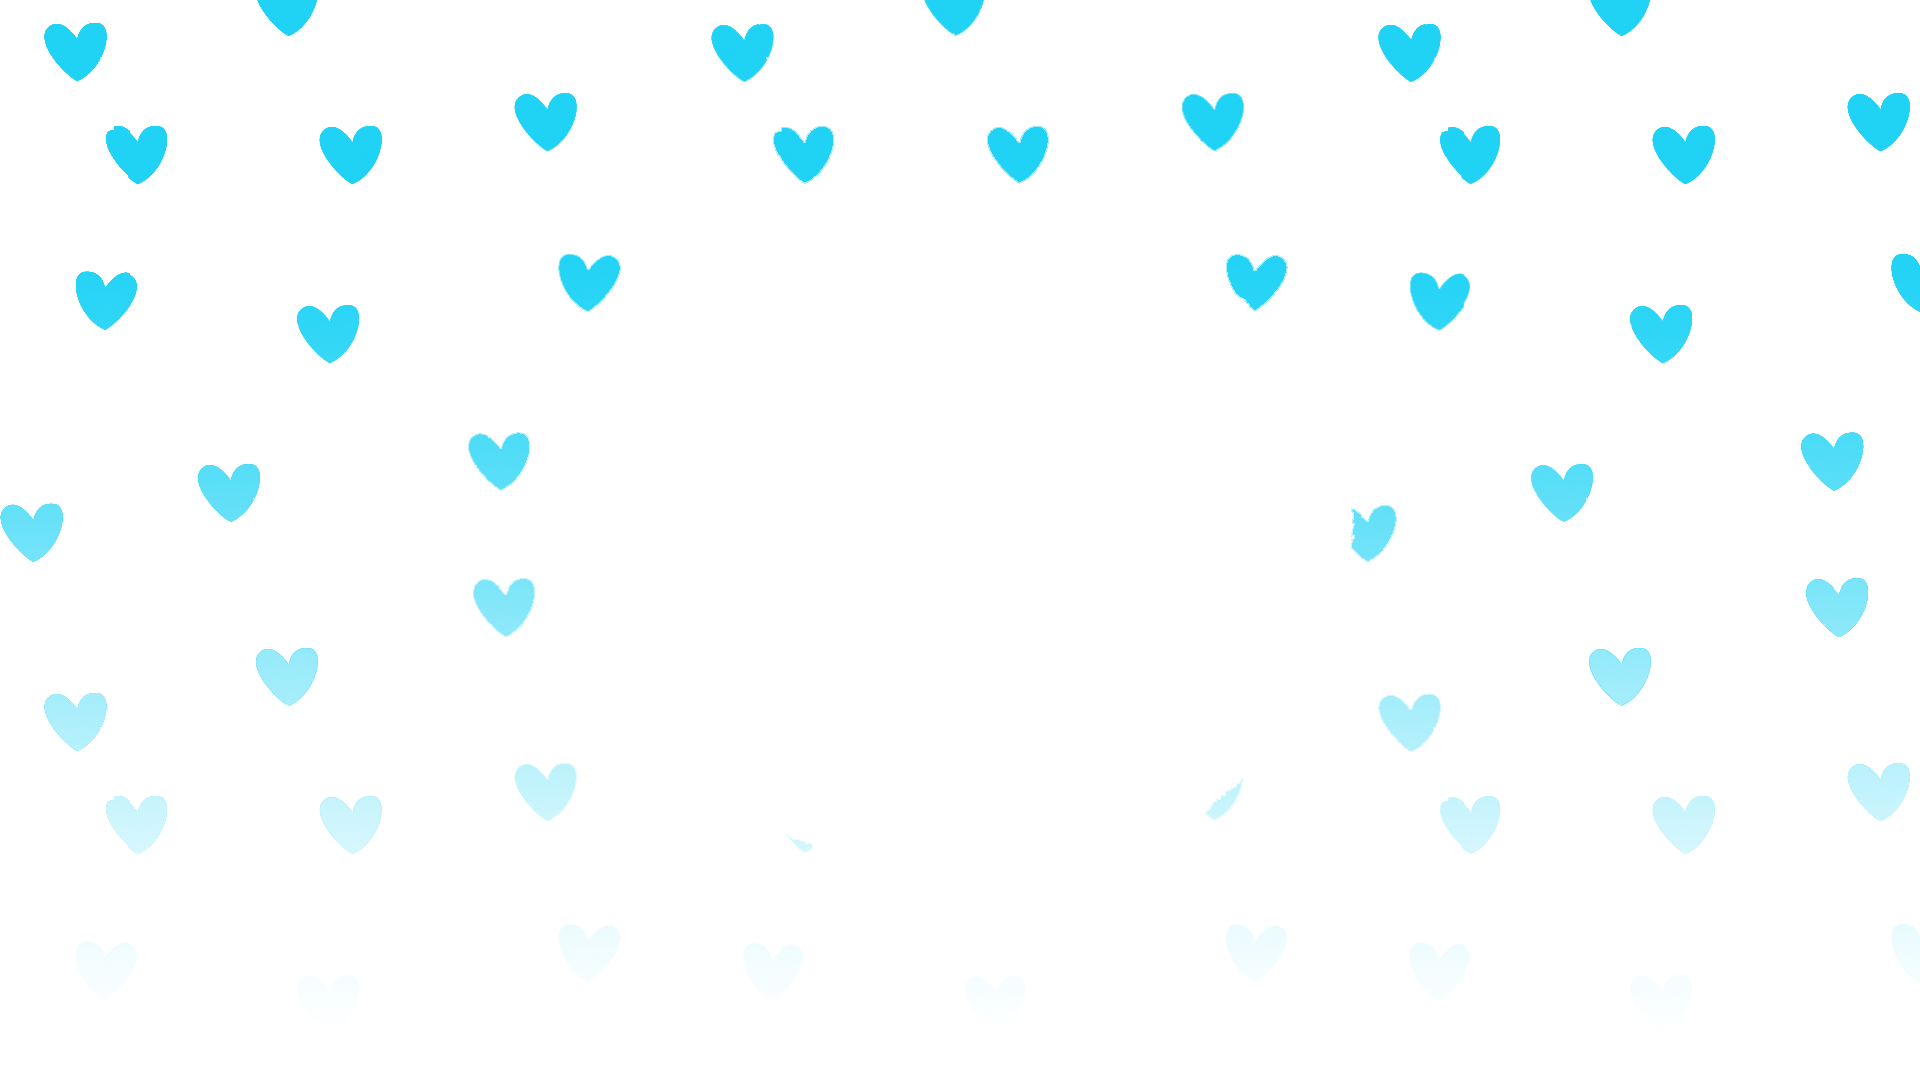
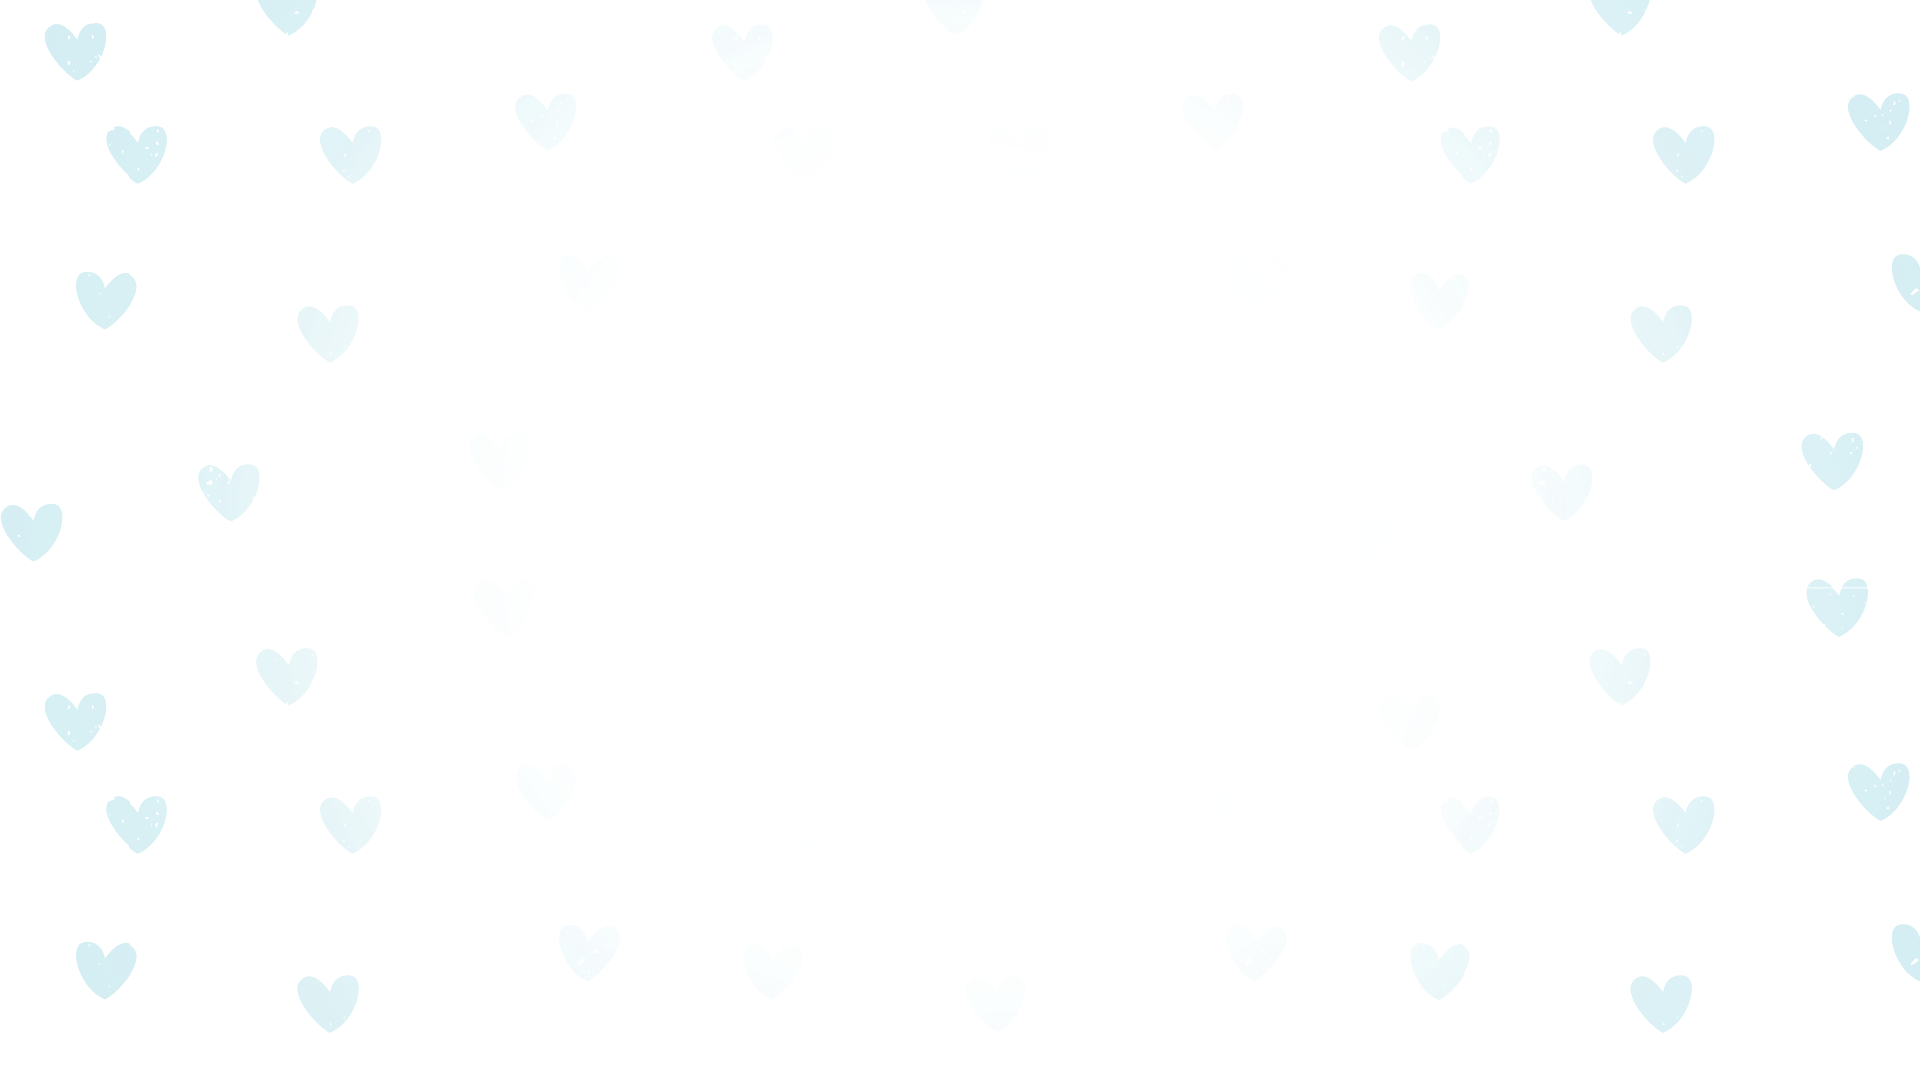
10-25-08-03

diff --git a/src/components/about.jsx b/src/components/about.jsx
@@ -14,9 +14,9 @@ export class about extends Component {
           </div>
           <div className="about-right">
             <p className="about-content">
-              Wagies is and avatar proejct that is build around our value-less utitlity token(Tandies)
+              Wagies is and avatar project that is built around our value-less utility token(Tandies)
             </p>
-            <p>To reward Members for Holding Wagies, we are building a gaming and a gachapon ecosystem around this token.</p>
+            <p>To Reward Members for Holding Wagies, we are building a gaming and a gachapon ecosystem around this token.</p>
           </div>
         </div>
       </div>

diff --git a/src/components/team.jsx b/src/components/team.jsx
@@ -12,9 +12,13 @@ export class Team extends Component {
         <div className="team-container">
           <div className="team-left">
             <img src={Teamleft} alt="" className="team-left-image" />
+            <p className="name">MOT</p>
+            <p className="description">Project Manager</p>
           </div>
           <div className="team-right">
             <img src={Teamright} alt="" className="team-left-image" />
+            <p className="name">MSILucifer</p>
+            <p className="description">Developer</p>
           </div>
         </div>
       </div>

diff --git a/src/components/home.jsx b/src/components/home.jsx
@@ -10,7 +10,7 @@ import Image3 from '../assets/Carousel/Carousel3.jpg';
 import Image4 from '../assets/Carousel/Carousel4.jpg';
 import Image5 from '../assets/Carousel/Carousel5.jpg';
 import Image6 from '../assets/Carousel/Carousel6.jpg';
-import background from '../assets/Website/heartbackground.png';
+import background from '../assets/Website/heartbackground1.png';
 
 
 export class home extends Component{

diff --git a/public/css/style.css b/public/css/style.css
@@ -841,6 +841,17 @@ color: #777;
 	color: black !important;
 	font-size: 25px;
 }
+.name{
+	margin-top: 10px;
+	color: black !important;
+	font-size: 30px;
+	font-family: Rammetto One;
+}
+.description{
+	color: black !important;
+	font-size: 25px;
+	font-family: Rammetto One;
+}
 
 @media screen and (max-width: 1300px) {
 	.home-right img{
